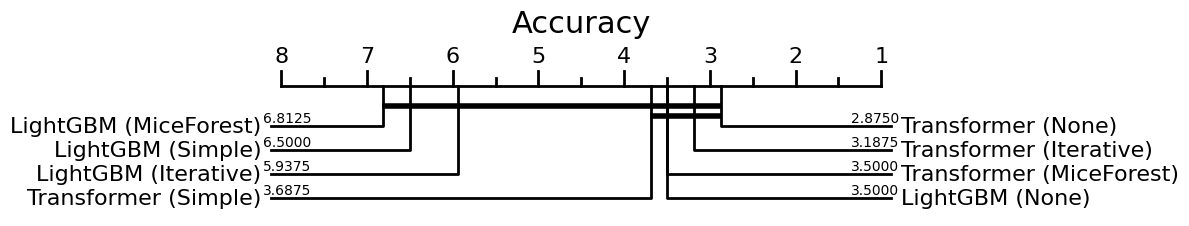
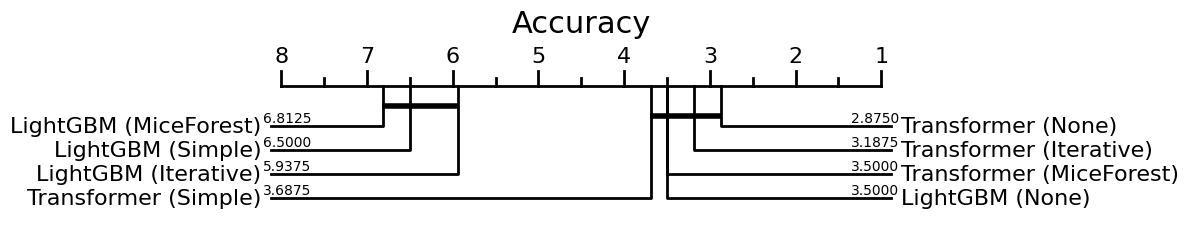
cd diagram

Changed region(s): [[0.3734, 0.4336, 0.6224, 0.4956]]

diff --git a/cd-diagram/main.py b/cd-diagram/main.py
@@ -351,7 +351,8 @@ def wilcoxon_holm(alpha=0.05, df_perf=None):
     # loop through the hypothesis
     for i in range(k):
         # correct alpha with holm
-        new_alpha = float(alpha / float(k - i))
+        # new_alpha = float(alpha / float(k - i))
+        new_alpha = alpha
         # test if significant after holm's correction of alpha
         if p_values[i][2] <= new_alpha:
             p_values[i] = (p_values[i][0], p_values[i][1], p_values[i][2], True)
